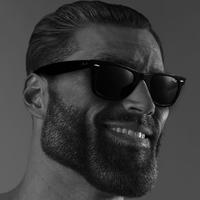
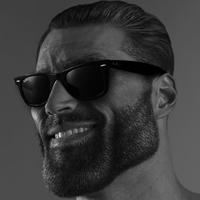
Change profile pictures in gui

diff --git a/src/main/java/shef/gui/MainWindow.java b/src/main/java/shef/gui/MainWindow.java
@@ -30,8 +30,8 @@ public class MainWindow extends AnchorPane {
 
     private Shef shef;
 
-    private Image userImage = new Image(this.getClass().getResourceAsStream("/images/User.png"));
-    private Image shefImage = new Image(this.getClass().getResourceAsStream("/images/gigachad.png"));
+    private Image userImage = new Image(this.getClass().getResourceAsStream("/images/gigachad.png"));
+    private Image shefImage = new Image(this.getClass().getResourceAsStream("/images/shef.png"));
 
     /**
      * Initializes the main window.
